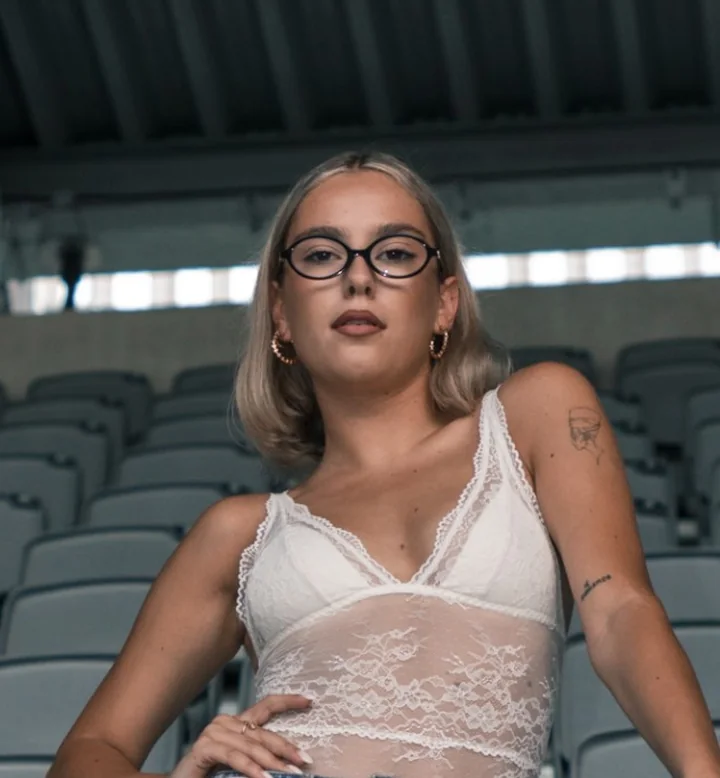
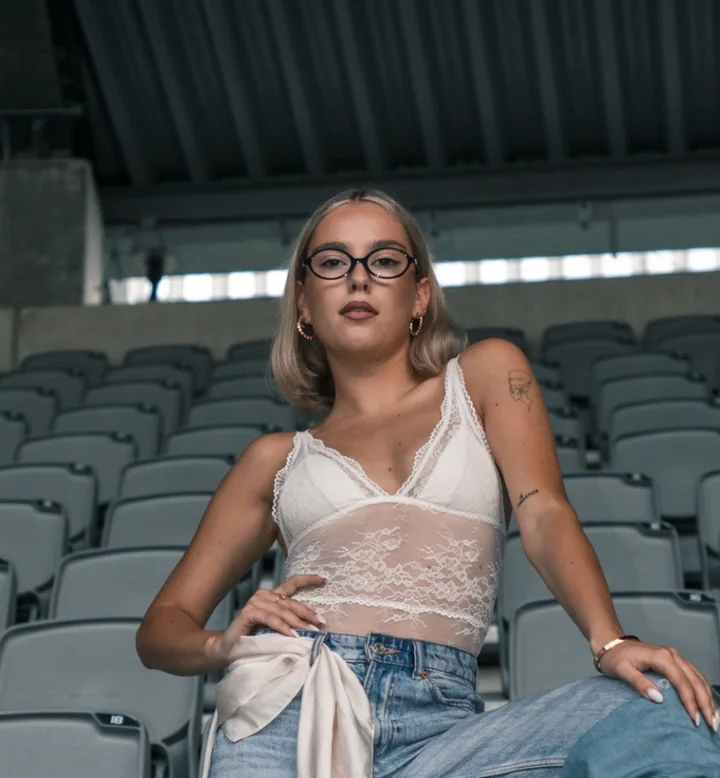
New Rytis photo, less zoom for Rytis and Ausre, remove role labels
Claude-Session: https://claude.ai/code/session_01XEzPyUBZGmNXQ2zKACwKBK

diff --git a/src/content/defaults.ts b/src/content/defaults.ts
@@ -110,24 +110,24 @@ export const DEFAULTS: ContentMap = {
     title: 'Mūsų treneriai',
     items: [
       {
-        name: 'Rytis Survila', role: 'Studijos vadovas', specialty: 'Gatvės šokiai', experience: '', color: '#F7B1D4', bio: '',
-        image: { src: '/img/trainers/treneris-5.webp', alt: 'Studijos vadovas Rytis Survila' },
+        name: 'Rytis Survila', specialty: 'Gatvės šokiai', experience: '', color: '#F7B1D4', bio: '',
+        image: { src: '/img/trainers/treneris-5.webp', alt: 'Rytis Survila' },
       },
       {
-        name: 'Aušrė Savonytė', role: 'Trenerė', specialty: 'Pop Dance, Lady Class', experience: '', color: '#F7B1D4', bio: '',
-        image: { src: '/img/trainers/treneris-1.webp', alt: 'Trenerė Aušrė Savonytė' },
+        name: 'Aušrė Savonytė', specialty: 'Pop Dance, Lady Class', experience: '', color: '#F7B1D4', bio: '',
+        image: { src: '/img/trainers/treneris-1.webp', alt: 'Aušrė Savonytė' },
       },
       {
-        name: 'Edvinas Milaknis', role: 'Treneris', specialty: 'Breikas', experience: '', color: '#F7B1D4', bio: '',
-        image: { src: '/img/trainers/treneris-2.webp', alt: 'Treneris Edvinas Milaknis' },
+        name: 'Edvinas Milaknis', specialty: 'Breikas', experience: '', color: '#F7B1D4', bio: '',
+        image: { src: '/img/trainers/treneris-2.webp', alt: 'Edvinas Milaknis' },
       },
       {
-        name: 'Greta Pukenytė', role: 'Trenerė', specialty: 'Gatvės šokiai', experience: '', color: '#F7B1D4', bio: '',
-        image: { src: '/img/trainers/treneris-3.webp', alt: 'Trenerė Greta Pukenytė' },
+        name: 'Greta Pukenytė', specialty: 'Gatvės šokiai', experience: '', color: '#F7B1D4', bio: '',
+        image: { src: '/img/trainers/treneris-3.webp', alt: 'Greta Pukenytė' },
       },
       {
-        name: 'Paulina Kindurytė', role: 'Trenerė', specialty: 'Gatvės šokiai', experience: '', color: '#F7B1D4', bio: '',
-        image: { src: '/img/trainers/treneris-4.webp', alt: 'Trenerė Paulina Kindurytė' },
+        name: 'Paulina Kindurytė', specialty: 'Gatvės šokiai', experience: '', color: '#F7B1D4', bio: '',
+        image: { src: '/img/trainers/treneris-4.webp', alt: 'Paulina Kindurytė' },
       },
     ],
   },

diff --git a/src/App.tsx b/src/App.tsx
@@ -401,7 +401,6 @@ function Site({ page }: { page: Page }) {
               <img src={t.image.src} alt={t.image.alt} loading="lazy" className="ng-trainer__photo" />
               <span className="ng-trainer__shade" aria-hidden="true" />
               <div className="ng-trainer__info">
-                {t.role && <span className="ng-trainer__role">{t.role}</span>}
                 <h3>{t.name.split(' ')[0]}</h3>
                 {t.specialty && <span className="ng-trainer__style">{t.specialty}</span>}
               </div>

diff --git a/src/content/types.ts b/src/content/types.ts
@@ -28,7 +28,7 @@ export type ContentMap = {
   }
   'home.trainers': {
     kicker: string; title: string
-    items: { name: string; role?: string; specialty: string; experience: string; bio: string; color: string; image: Img }[]
+    items: { name: string; specialty: string; experience: string; bio: string; color: string; image: Img }[]
   }
   'home.cta': { kicker: string; line1: string; line2: string; button: string }
   timetable: {
